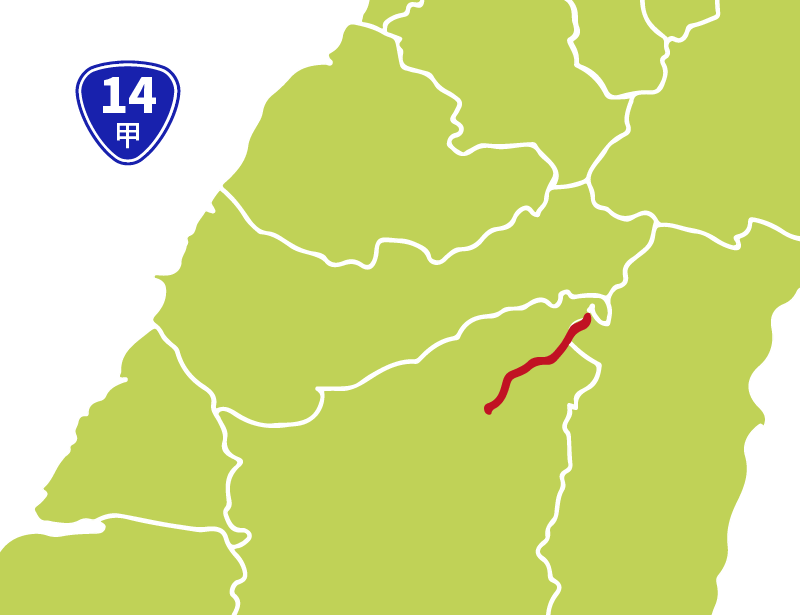
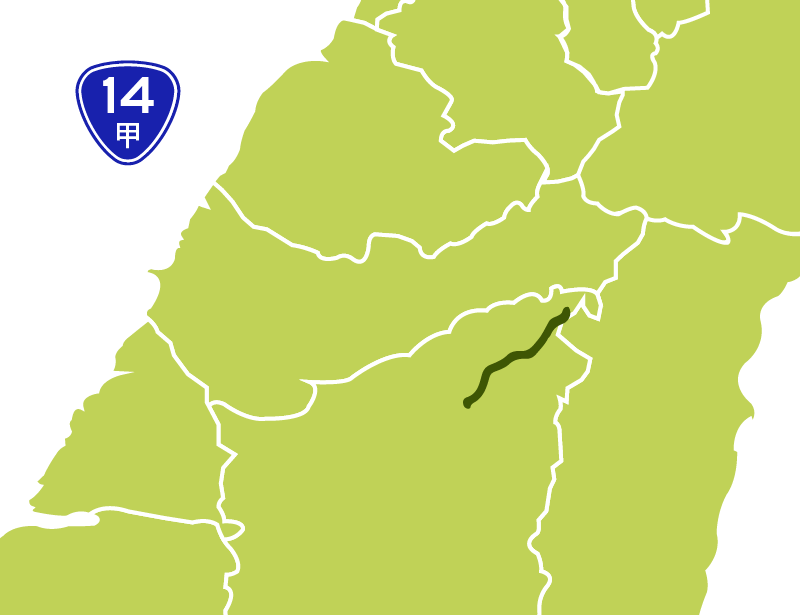
新增公路地圖

diff --git a/lp_景觀公路.htm b/lp_景觀公路.htm
@@ -117,12 +117,12 @@
                                         <div class="img-container">
                                             <!-- 此範例為4:3比例 -->
                                             <picture>
-                                                <source media="(min-width: 1200px)" data-srcset="images/prov-highway_map/prov_9.png">
-                                                <source media="(min-width: 992px)" data-srcset="images/prov-highway_map/prov_9.png">
-                                                <source media="(min-width: 576px)" data-srcset="images/prov-highway_map/prov_9.png">
-                                                <source media="(max-width: 575px)" data-srcset="images/prov-highway_map/prov_9.png">
-                                                <img data-src="images/prov-highway_map/prov_9.png" class="lazy">
-                                                <noscript><img src="images/prov-highway_map/prov_9.png"></noscript>
+                                                <source media="(min-width: 1200px)" data-srcset="images/prov-highway_map/prov_2.png">
+                                                <source media="(min-width: 992px)" data-srcset="images/prov-highway_map/prov_2.png">
+                                                <source media="(min-width: 576px)" data-srcset="images/prov-highway_map/prov_2.png">
+                                                <source media="(max-width: 575px)" data-srcset="images/prov-highway_map/prov_2.png">
+                                                <img data-src="images/prov-highway_map/prov_2.png" class="lazy">
+                                                <noscript><img src="images/prov-highway_map/prov_2.png"></noscript>
                                             </picture>
                                         </div>
                                         <div class="caption">
@@ -140,12 +140,12 @@
                                         <div class="img-container">
                                             <!-- 此範例為4:3比例 -->
                                             <picture>
-                                                <source media="(min-width: 1200px)" data-srcset="images/prov-highway_map/prov_9.png">
-                                                <source media="(min-width: 992px)" data-srcset="images/prov-highway_map/prov_9.png">
-                                                <source media="(min-width: 576px)" data-srcset="images/prov-highway_map/prov_9.png">
-                                                <source media="(max-width: 575px)" data-srcset="images/prov-highway_map/prov_9.png">
-                                                <img data-src="images/prov-highway_map/prov_9.png" class="lazy">
-                                                <noscript><img src="images/prov-highway_map/prov_9.png"></noscript>
+                                                <source media="(min-width: 1200px)" data-srcset="images/prov-highway_map/prov_3.png">
+                                                <source media="(min-width: 992px)" data-srcset="images/prov-highway_map/prov_3.png">
+                                                <source media="(min-width: 576px)" data-srcset="images/prov-highway_map/prov_3.png">
+                                                <source media="(max-width: 575px)" data-srcset="images/prov-highway_map/prov_3.png">
+                                                <img data-src="images/prov-highway_map/prov_3.png" class="lazy">
+                                                <noscript><img src="images/prov-highway_map/prov_3.png"></noscript>
                                             </picture>
                                         </div>
                                         <div class="caption">
@@ -163,12 +163,12 @@
                                         <div class="img-container">
                                             <!-- 此範例為4:3比例 -->
                                             <picture>
-                                                <source media="(min-width: 1200px)" data-srcset="images/prov-highway_map/prov_9.png">
-                                                <source media="(min-width: 992px)" data-srcset="images/prov-highway_map/prov_9.png">
-                                                <source media="(min-width: 576px)" data-srcset="images/prov-highway_map/prov_9.png">
-                                                <source media="(max-width: 575px)" data-srcset="images/prov-highway_map/prov_9.png">
-                                                <img data-src="images/prov-highway_map/prov_9.png" class="lazy">
-                                                <noscript><img src="images/prov-highway_map/prov_9.png"></noscript>
+                                                <source media="(min-width: 1200px)" data-srcset="images/prov-highway_map/prov_7.png">
+                                                <source media="(min-width: 992px)" data-srcset="images/prov-highway_map/prov_7.png">
+                                                <source media="(min-width: 576px)" data-srcset="images/prov-highway_map/prov_7.png">
+                                                <source media="(max-width: 575px)" data-srcset="images/prov-highway_map/prov_7.png">
+                                                <img data-src="images/prov-highway_map/prov_7.png" class="lazy">
+                                                <noscript><img src="images/prov-highway_map/prov_7.png"></noscript>
                                             </picture>
                                         </div>
                                         <div class="caption">
@@ -186,12 +186,12 @@
                                         <div class="img-container">
                                             <!-- 此範例為4:3比例 -->
                                             <picture>
-                                                <source media="(min-width: 1200px)" data-srcset="images/prov-highway_map/prov_9.png">
-                                                <source media="(min-width: 992px)" data-srcset="images/prov-highway_map/prov_9.png">
-                                                <source media="(min-width: 576px)" data-srcset="images/prov-highway_map/prov_9.png">
-                                                <source media="(max-width: 575px)" data-srcset="images/prov-highway_map/prov_9.png">
-                                                <img data-src="images/prov-highway_map/prov_9.png" class="lazy">
-                                                <noscript><img src="images/prov-highway_map/prov_9.png"></noscript>
+                                                <source media="(min-width: 1200px)" data-srcset="images/prov-highway_map/prov_8.png">
+                                                <source media="(min-width: 992px)" data-srcset="images/prov-highway_map/prov_8.png">
+                                                <source media="(min-width: 576px)" data-srcset="images/prov-highway_map/prov_8.png">
+                                                <source media="(max-width: 575px)" data-srcset="images/prov-highway_map/prov_8.png">
+                                                <img data-src="images/prov-highway_map/prov_8.png" class="lazy">
+                                                <noscript><img src="images/prov-highway_map/prov_8.png"></noscript>
                                             </picture>
                                         </div>
                                         <div class="caption">
@@ -235,12 +235,12 @@
                                         <div class="img-container">
                                             <!-- 此範例為4:3比例 -->
                                             <picture>
-                                                <source media="(min-width: 1200px)" data-srcset="images/prov-highway_map/prov_10.png">
-                                                <source media="(min-width: 992px)" data-srcset="images/prov-highway_map/prov_10.png">
-                                                <source media="(min-width: 576px)" data-srcset="images/prov-highway_map/prov_10.png">
-                                                <source media="(max-width: 575px)" data-srcset="images/prov-highway_map/prov_10.png">
-                                                <img data-src="images/prov-highway_map/prov_10.png" class="lazy">
-                                                <noscript><img src="images/prov-highway_map/prov_10.png"></noscript>
+                                                <source media="(min-width: 1200px)" data-srcset="images/prov-highway_map/prov_9d.png">
+                                                <source media="(min-width: 992px)" data-srcset="images/prov-highway_map/prov_9d.png">
+                                                <source media="(min-width: 576px)" data-srcset="images/prov-highway_map/prov_9d.png">
+                                                <source media="(max-width: 575px)" data-srcset="images/prov-highway_map/prov_9d.png">
+                                                <img data-src="images/prov-highway_map/prov_9d.png" class="lazy">
+                                                <noscript><img src="images/prov-highway_map/prov_9d.png"></noscript>
                                             </picture>
                                         </div>
                                         <div class="caption">
@@ -258,12 +258,12 @@
                                         <div class="img-container">
                                             <!-- 此範例為4:3比例 -->
                                             <picture>
-                                                <source media="(min-width: 1200px)" data-srcset="images/prov-highway_map/prov_14a.png">
-                                                <source media="(min-width: 992px)" data-srcset="images/prov-highway_map/prov_14a.png">
-                                                <source media="(min-width: 576px)" data-srcset="images/prov-highway_map/prov_14a.png">
-                                                <source media="(max-width: 575px)" data-srcset="images/prov-highway_map/prov_14a.png">
-                                                <img data-src="images/prov-highway_map/prov_14a.png" class="lazy">
-                                                <noscript><img src="images/prov-highway_map/prov_14a.png"></noscript>
+                                                <source media="(min-width: 1200px)" data-srcset="images/prov-highway_map/prov_11.png">
+                                                <source media="(min-width: 992px)" data-srcset="images/prov-highway_map/prov_11.png">
+                                                <source media="(min-width: 576px)" data-srcset="images/prov-highway_map/prov_11.png">
+                                                <source media="(max-width: 575px)" data-srcset="images/prov-highway_map/prov_11.png">
+                                                <img data-src="images/prov-highway_map/prov_11.png" class="lazy">
+                                                <noscript><img src="images/prov-highway_map/prov_11.png"></noscript>
                                             </picture>
                                         </div>
                                         <div class="caption">
@@ -281,12 +281,12 @@
                                         <div class="img-container">
                                             <!-- 此範例為4:3比例 -->
                                             <picture>
-                                                <source media="(min-width: 1200px)" data-srcset="images/prov-highway_map/prov_14a.png">
-                                                <source media="(min-width: 992px)" data-srcset="images/prov-highway_map/prov_14a.png">
-                                                <source media="(min-width: 576px)" data-srcset="images/prov-highway_map/prov_14a.png">
-                                                <source media="(max-width: 575px)" data-srcset="images/prov-highway_map/prov_14a.png">
-                                                <img data-src="images/prov-highway_map/prov_14a.png" class="lazy">
-                                                <noscript><img src="images/prov-highway_map/prov_14a.png"></noscript>
+                                                <source media="(min-width: 1200px)" data-srcset="images/prov-highway_map/prov_14.png">
+                                                <source media="(min-width: 992px)" data-srcset="images/prov-highway_map/prov_14.png">
+                                                <source media="(min-width: 576px)" data-srcset="images/prov-highway_map/prov_14.png">
+                                                <source media="(max-width: 575px)" data-srcset="images/prov-highway_map/prov_14.png">
+                                                <img data-src="images/prov-highway_map/prov_14.png" class="lazy">
+                                                <noscript><img src="images/prov-highway_map/prov_14.png"></noscript>
                                             </picture>
                                         </div>
                                         <div class="caption">
@@ -327,12 +327,12 @@
                                         <div class="img-container">
                                             <!-- 此範例為4:3比例 -->
                                             <picture>
-                                                <source media="(min-width: 1200px)" data-srcset="images/prov-highway_map/prov_14a.png">
-                                                <source media="(min-width: 992px)" data-srcset="images/prov-highway_map/prov_14a.png">
-                                                <source media="(min-width: 576px)" data-srcset="images/prov-highway_map/prov_14a.png">
-                                                <source media="(max-width: 575px)" data-srcset="images/prov-highway_map/prov_14a.png">
-                                                <img data-src="images/prov-highway_map/prov_14a.png" class="lazy">
-                                                <noscript><img src="images/prov-highway_map/prov_14a.png"></noscript>
+                                                <source media="(min-width: 1200px)" data-srcset="images/prov-highway_map/prov_18.png">
+                                                <source media="(min-width: 992px)" data-srcset="images/prov-highway_map/prov_18.png">
+                                                <source media="(min-width: 576px)" data-srcset="images/prov-highway_map/prov_18.png">
+                                                <source media="(max-width: 575px)" data-srcset="images/prov-highway_map/prov_18.png">
+                                                <img data-src="images/prov-highway_map/prov_18.png" class="lazy">
+                                                <noscript><img src="images/prov-highway_map/prov_18.png"></noscript>
                                             </picture>
                                         </div>
                                         <div class="caption">
@@ -350,12 +350,12 @@
                                         <div class="img-container">
                                             <!-- 此範例為4:3比例 -->
                                             <picture>
-                                                <source media="(min-width: 1200px)" data-srcset="images/prov-highway_map/prov_14a.png">
-                                                <source media="(min-width: 992px)" data-srcset="images/prov-highway_map/prov_14a.png">
-                                                <source media="(min-width: 576px)" data-srcset="images/prov-highway_map/prov_14a.png">
-                                                <source media="(max-width: 575px)" data-srcset="images/prov-highway_map/prov_14a.png">
-                                                <img data-src="images/prov-highway_map/prov_14a.png" class="lazy">
-                                                <noscript><img src="images/prov-highway_map/prov_14a.png"></noscript>
+                                                <source media="(min-width: 1200px)" data-srcset="images/prov-highway_map/prov_20.png">
+                                                <source media="(min-width: 992px)" data-srcset="images/prov-highway_map/prov_20.png">
+                                                <source media="(min-width: 576px)" data-srcset="images/prov-highway_map/prov_20.png">
+                                                <source media="(max-width: 575px)" data-srcset="images/prov-highway_map/prov_20.png">
+                                                <img data-src="images/prov-highway_map/prov_20.png" class="lazy">
+                                                <noscript><img src="images/prov-highway_map/prov_20.png"></noscript>
                                             </picture>
                                         </div>
                                         <div class="caption">
@@ -373,12 +373,12 @@
                                         <div class="img-container">
                                             <!-- 此範例為4:3比例 -->
                                             <picture>
-                                                <source media="(min-width: 1200px)" data-srcset="images/prov-highway_map/prov_14a.png">
-                                                <source media="(min-width: 992px)" data-srcset="images/prov-highway_map/prov_14a.png">
-                                                <source media="(min-width: 576px)" data-srcset="images/prov-highway_map/prov_14a.png">
-                                                <source media="(max-width: 575px)" data-srcset="images/prov-highway_map/prov_14a.png">
-                                                <img data-src="images/prov-highway_map/prov_14a.png" class="lazy">
-                                                <noscript><img src="images/prov-highway_map/prov_14a.png"></noscript>
+                                                <source media="(min-width: 1200px)" data-srcset="images/prov-highway_map/prov_21.png">
+                                                <source media="(min-width: 992px)" data-srcset="images/prov-highway_map/prov_21.png">
+                                                <source media="(min-width: 576px)" data-srcset="images/prov-highway_map/prov_21.png">
+                                                <source media="(max-width: 575px)" data-srcset="images/prov-highway_map/prov_21.png">
+                                                <img data-src="images/prov-highway_map/prov_21.png" class="lazy">
+                                                <noscript><img src="images/prov-highway_map/prov_21.png"></noscript>
                                             </picture>
                                         </div>
                                         <div class="caption">
@@ -396,12 +396,12 @@
                                         <div class="img-container">
                                             <!-- 此範例為4:3比例 -->
                                             <picture>
-                                                <source media="(min-width: 1200px)" data-srcset="images/prov-highway_map/prov_14a.png">
-                                                <source media="(min-width: 992px)" data-srcset="images/prov-highway_map/prov_14a.png">
-                                                <source media="(min-width: 576px)" data-srcset="images/prov-highway_map/prov_14a.png">
-                                                <source media="(max-width: 575px)" data-srcset="images/prov-highway_map/prov_14a.png">
-                                                <img data-src="images/prov-highway_map/prov_14a.png" class="lazy">
-                                                <noscript><img src="images/prov-highway_map/prov_14a.png"></noscript>
+                                                <source media="(min-width: 1200px)" data-srcset="images/prov-highway_map/prov_26.png">
+                                                <source media="(min-width: 992px)" data-srcset="images/prov-highway_map/prov_26.png">
+                                                <source media="(min-width: 576px)" data-srcset="images/prov-highway_map/prov_26.png">
+                                                <source media="(max-width: 575px)" data-srcset="images/prov-highway_map/prov_26.png">
+                                                <img data-src="images/prov-highway_map/prov_26.png" class="lazy">
+                                                <noscript><img src="images/prov-highway_map/prov_26.png"></noscript>
                                             </picture>
                                         </div>
                                         <div class="caption">
@@ -419,12 +419,12 @@
                                         <div class="img-container">
                                             <!-- 此範例為4:3比例 -->
                                             <picture>
-                                                <source media="(min-width: 1200px)" data-srcset="images/prov-highway_map/prov_14a.png">
-                                                <source media="(min-width: 992px)" data-srcset="images/prov-highway_map/prov_14a.png">
-                                                <source media="(min-width: 576px)" data-srcset="images/prov-highway_map/prov_14a.png">
-                                                <source media="(max-width: 575px)" data-srcset="images/prov-highway_map/prov_14a.png">
-                                                <img data-src="images/prov-highway_map/prov_14a.png" class="lazy">
-                                                <noscript><img src="images/prov-highway_map/prov_14a.png"></noscript>
+                                                <source media="(min-width: 1200px)" data-srcset="images/prov-highway_map/prov_61.png">
+                                                <source media="(min-width: 992px)" data-srcset="images/prov-highway_map/prov_61.png">
+                                                <source media="(min-width: 576px)" data-srcset="images/prov-highway_map/prov_61.png">
+                                                <source media="(max-width: 575px)" data-srcset="images/prov-highway_map/prov_61.png">
+                                                <img data-src="images/prov-highway_map/prov_61.png" class="lazy">
+                                                <noscript><img src="images/prov-highway_map/prov_61.png"></noscript>
                                             </picture>
                                         </div>
                                         <div class="caption">

diff --git a/index.htm b/index.htm
@@ -290,10 +290,10 @@
                     </tr>
                     <tr>
                         <td></td>
-                        <td>省道專區<span style="display: inline-block;padding: 0em .3em; background:red; color:#FFF;border-radius: .25em;margin-left: .5em;">new</span></td>
+                        <td>景觀公路<span style="display: inline-block;padding: 0em .3em; background:red; color:#FFF;border-radius: .25em;margin-left: .5em;">new</span></td>
                         <!-- 連結放到a裡面就好 -->
                         <td>
-                            <a href="lp_省道專區.htm"></a>
+                            <a href="lp_景觀公路.htm"></a>
                         </td>
                     </tr>
                     <tr>

diff --git a/lp_省道主題公路列表頁.htm b/lp_省道主題公路列表頁.htm
@@ -112,7 +112,7 @@
                     <!-- 台灣地圖 -->
                     <div class="provHighway_map">
                         <div class="map">
-                            <img src="images/prov-highway_map/prov_9.png" alt="">
+                            <img src="images/prov-highway_map/prov_9-2.png" alt="">
                         </div>
                         <div class="road_list">
                             <div class="album">
